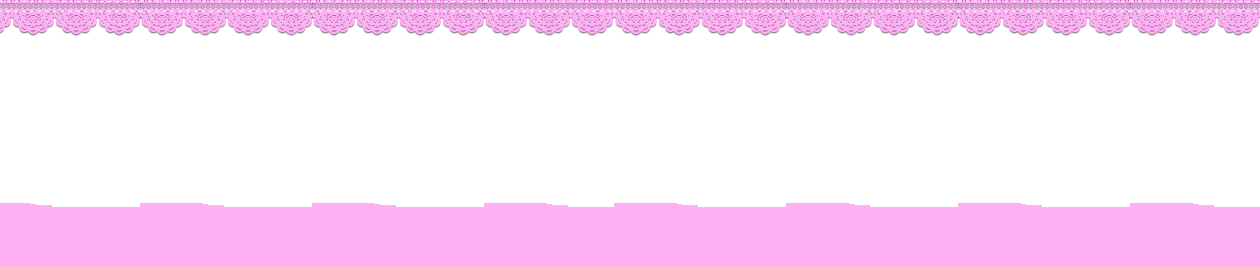
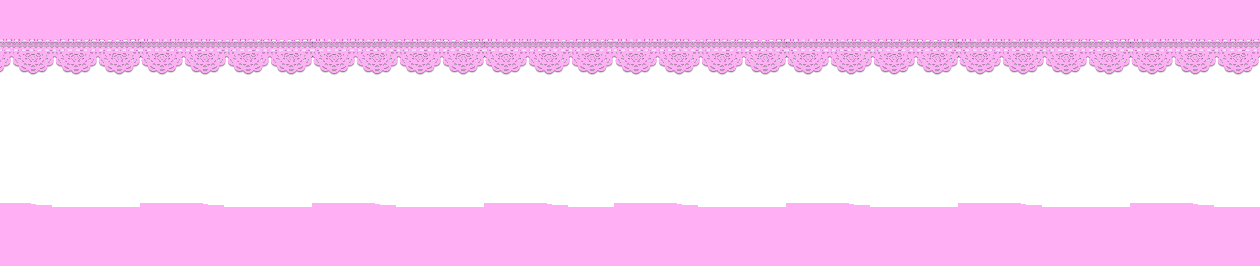
[PH1.0][UI] Broaden the UITabBar more

Changed region(s): [[0.0, 0.0, 1.0, 0.2707]]

diff --git a/PriLingo/UI/Top level UI/MyTabBarController.swift b/PriLingo/UI/Top level UI/MyTabBarController.swift
@@ -76,7 +76,7 @@ class MyTabBarController: UITabBarController {
         
         //starting point (left top) then draw lines until the it retunrs to the starting point by close().
         let startX: CGFloat = 0
-        let startY: CGFloat = -37
+        let startY: CGFloat = -100
         path.move(to: CGPoint.init(x: startX, y: startY))
         path.addLine(to: CGPoint.init(x: self.tabBar.frame.width, y: startY))
         path.addLine(to: CGPoint.init(x: self.tabBar.frame.width, y: self.tabBar.frame.height))
